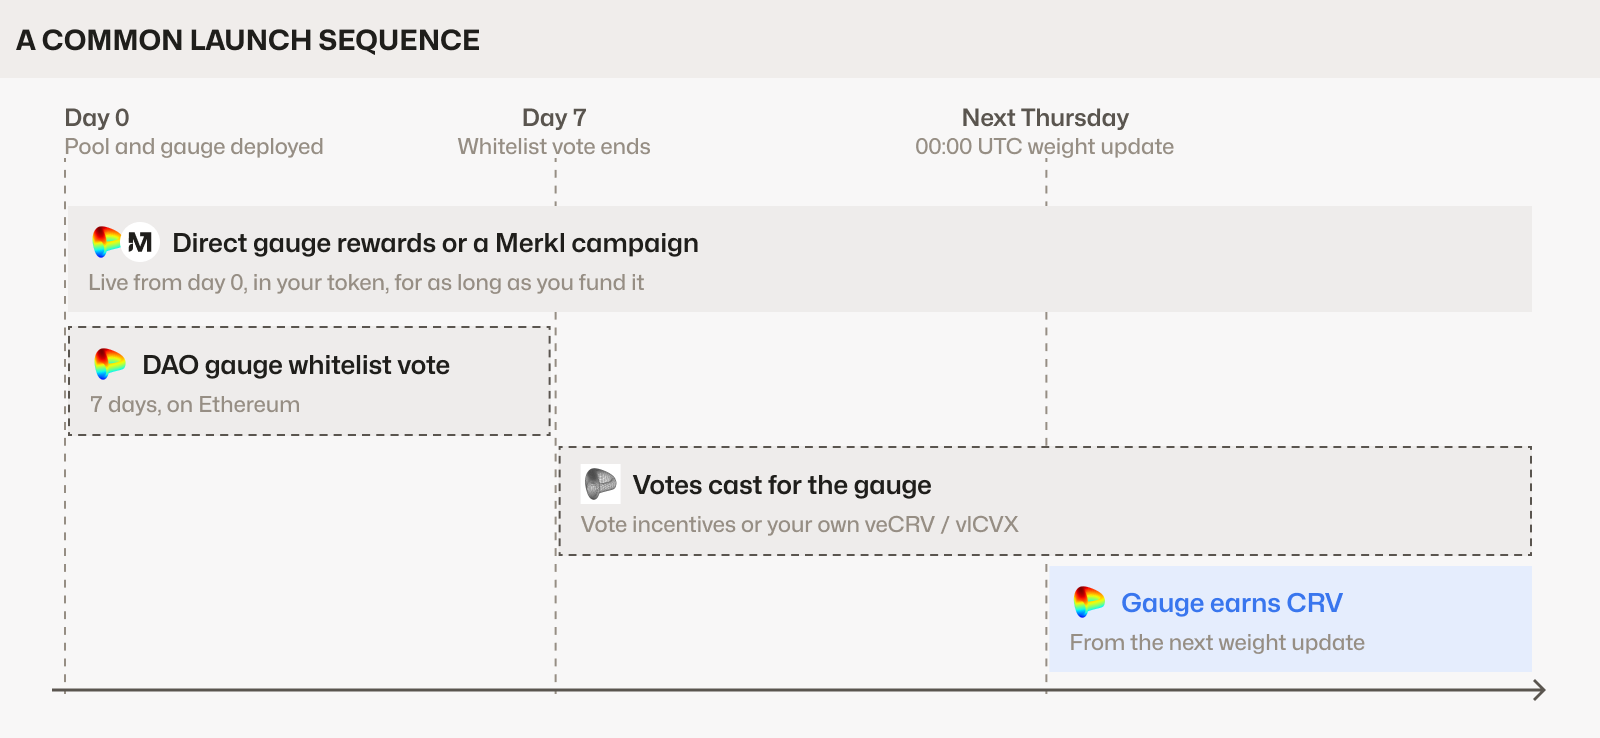
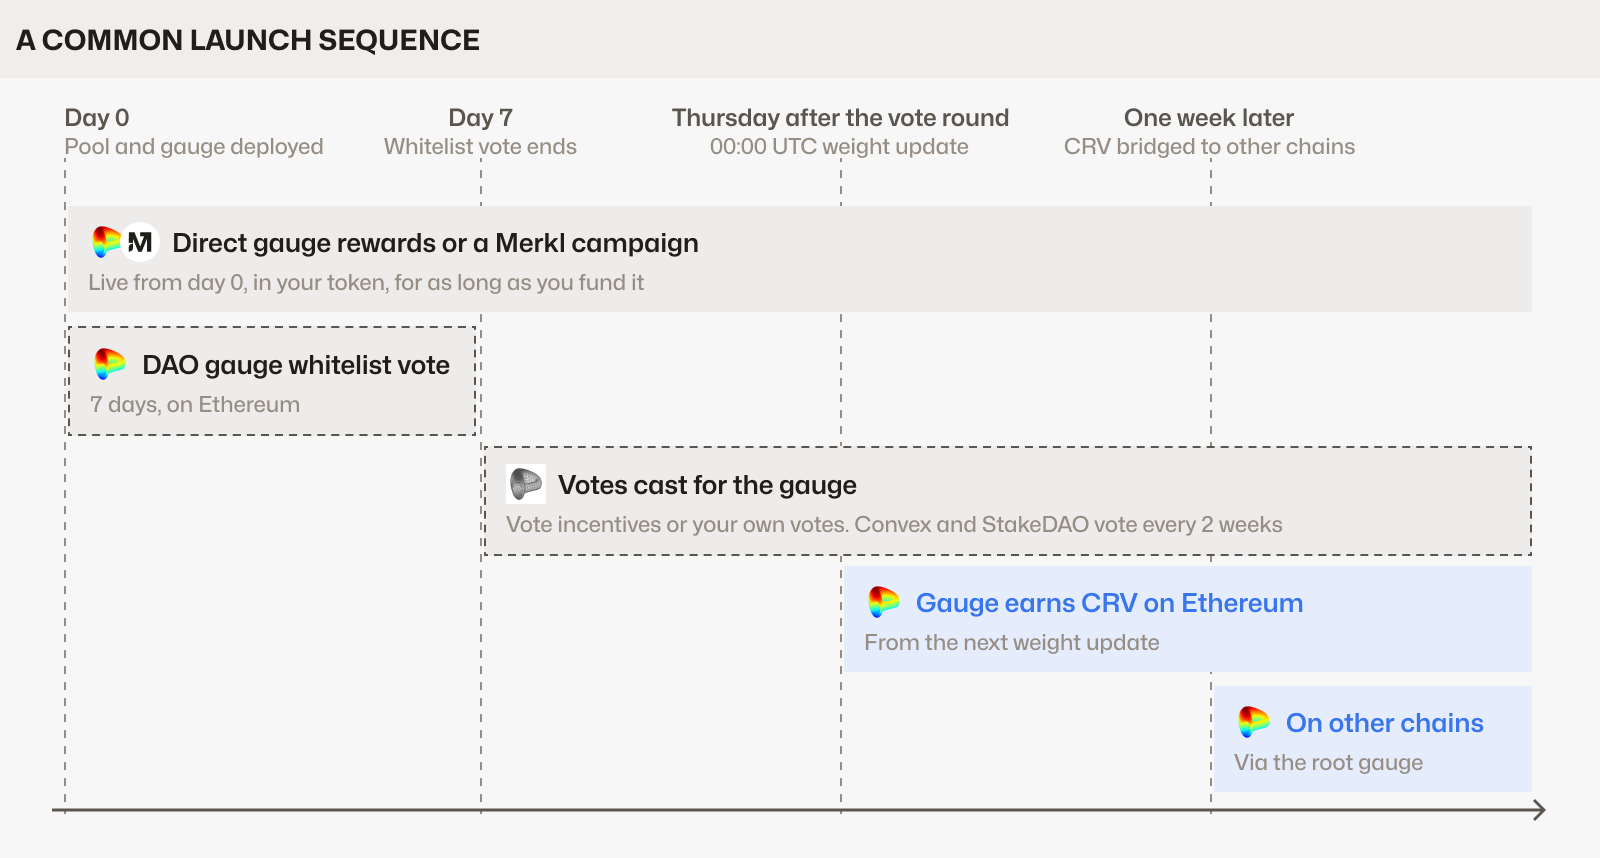
Update the launch timeline with the one-week delay on other chains

diff --git a/docs/protocol/gauge/incentive-routes.md b/docs/protocol/gauge/incentive-routes.md
@@ -79,6 +79,6 @@ Your budget buys votes, and those votes direct CRV emissions to your gauge, so L
 
 The routes stack on the same pool. A common pattern starts with direct gauge rewards or a Merkl campaign while the whitelist vote runs, then adds vote incentives or owned votes once the gauge can receive CRV.
 
-![A common launch sequence: direct gauge rewards or a Merkl campaign from day 0, the 7-day DAO gauge whitelist vote on Ethereum, votes cast for the gauge (Convex and StakeDAO vote every 2 weeks), then CRV from the Thursday 00:00 UTC weight update after that vote round, a week later on other chains.](/img/protocol/gauge/incentive-timeline.png)
+![A common launch sequence: direct gauge rewards or a Merkl campaign from day 0, the 7-day DAO gauge whitelist vote on Ethereum, votes cast for the gauge (Convex and StakeDAO vote every 2 weeks), then CRV on Ethereum from the Thursday 00:00 UTC weight update after that vote round, and on other chains one week later through the root gauge.](/img/protocol/gauge/incentive-timeline.png)
 
 Background: [Gauge Weights](/user/dao/gauge-weights).
